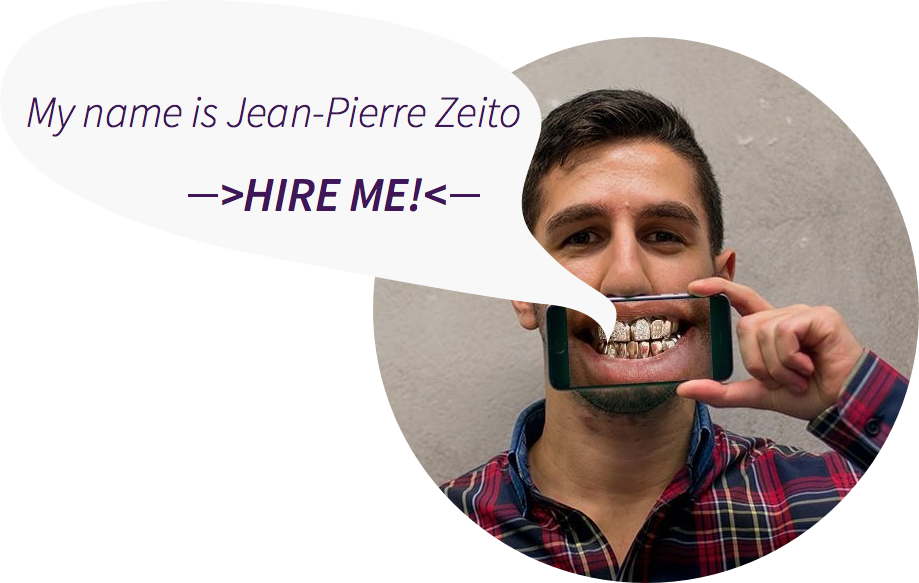
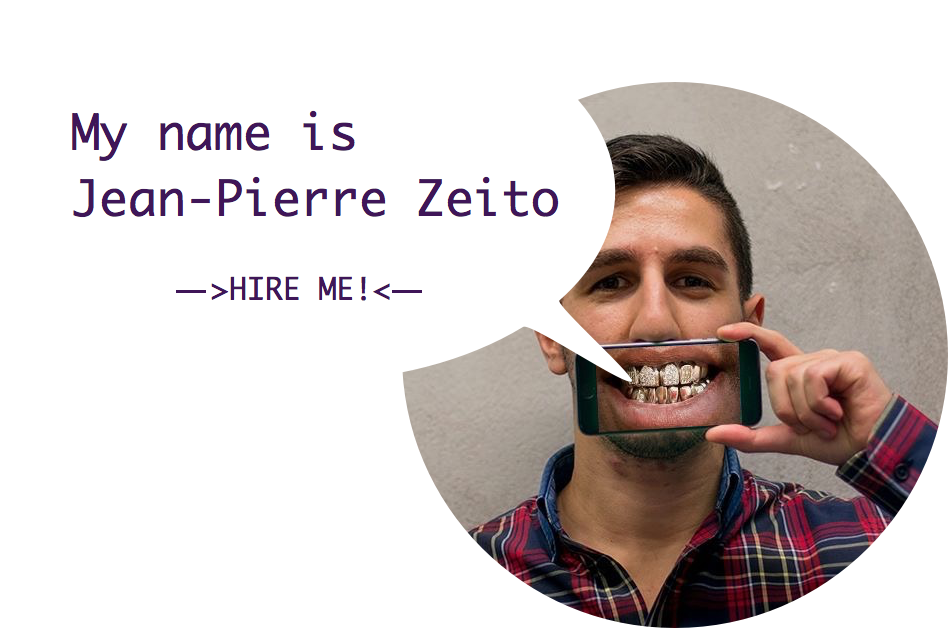
v.3.0

Changed region(s): [[0.0305, 0.0617, 1.0, 1.0], [0.0609, 0.3396, 0.0914, 0.3705]]

diff --git a/css/main.css b/css/main.css
@@ -30,8 +30,7 @@ html, body {
 
 .purple #hello {
 	margin-top: 20%;
-	font-family: source sans pro, serif;
-	font-weight: 300;
+	font-family: ayuthaya;
 	color: white;
 	font-size: 72px;
 }
@@ -79,8 +78,7 @@ span{
 }
 
 .purple #producer {
-	font-family: source sans pro, serif;
-	font-weight: 300;
+	font-family: ayuthaya;
 	color: white;
 	font-size: 54px;
 	margin-bottom: 10%;
